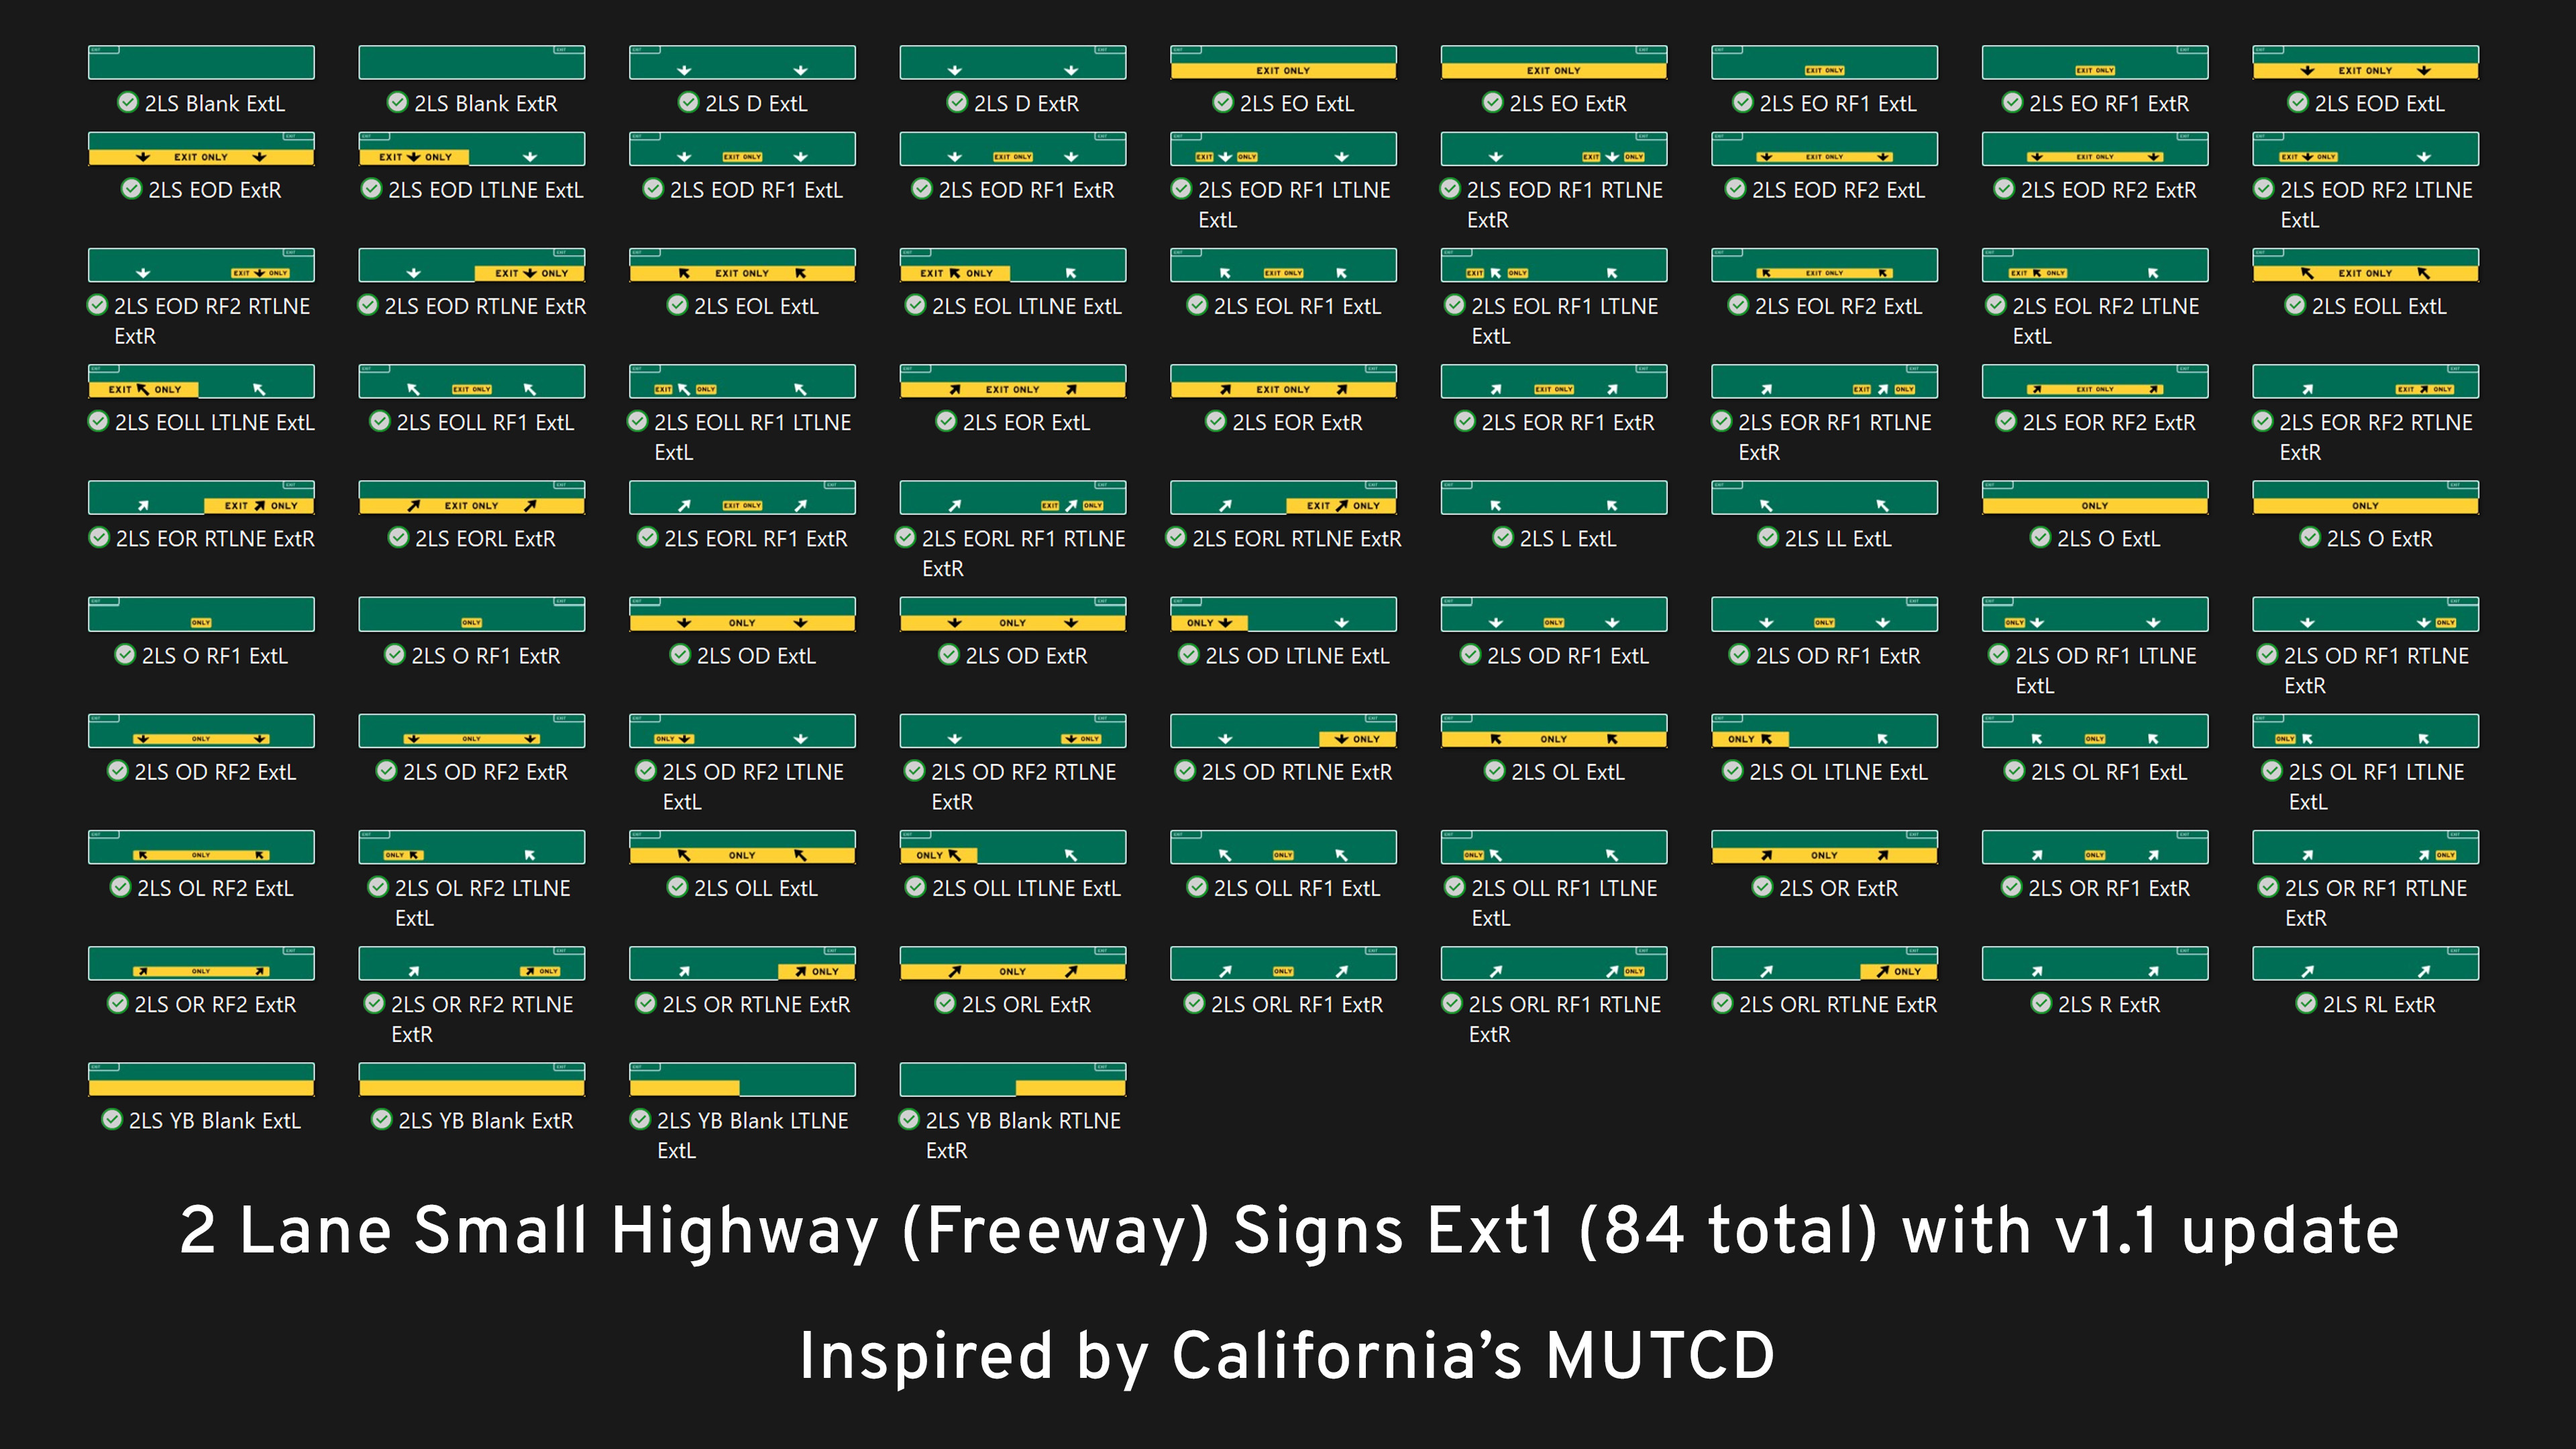
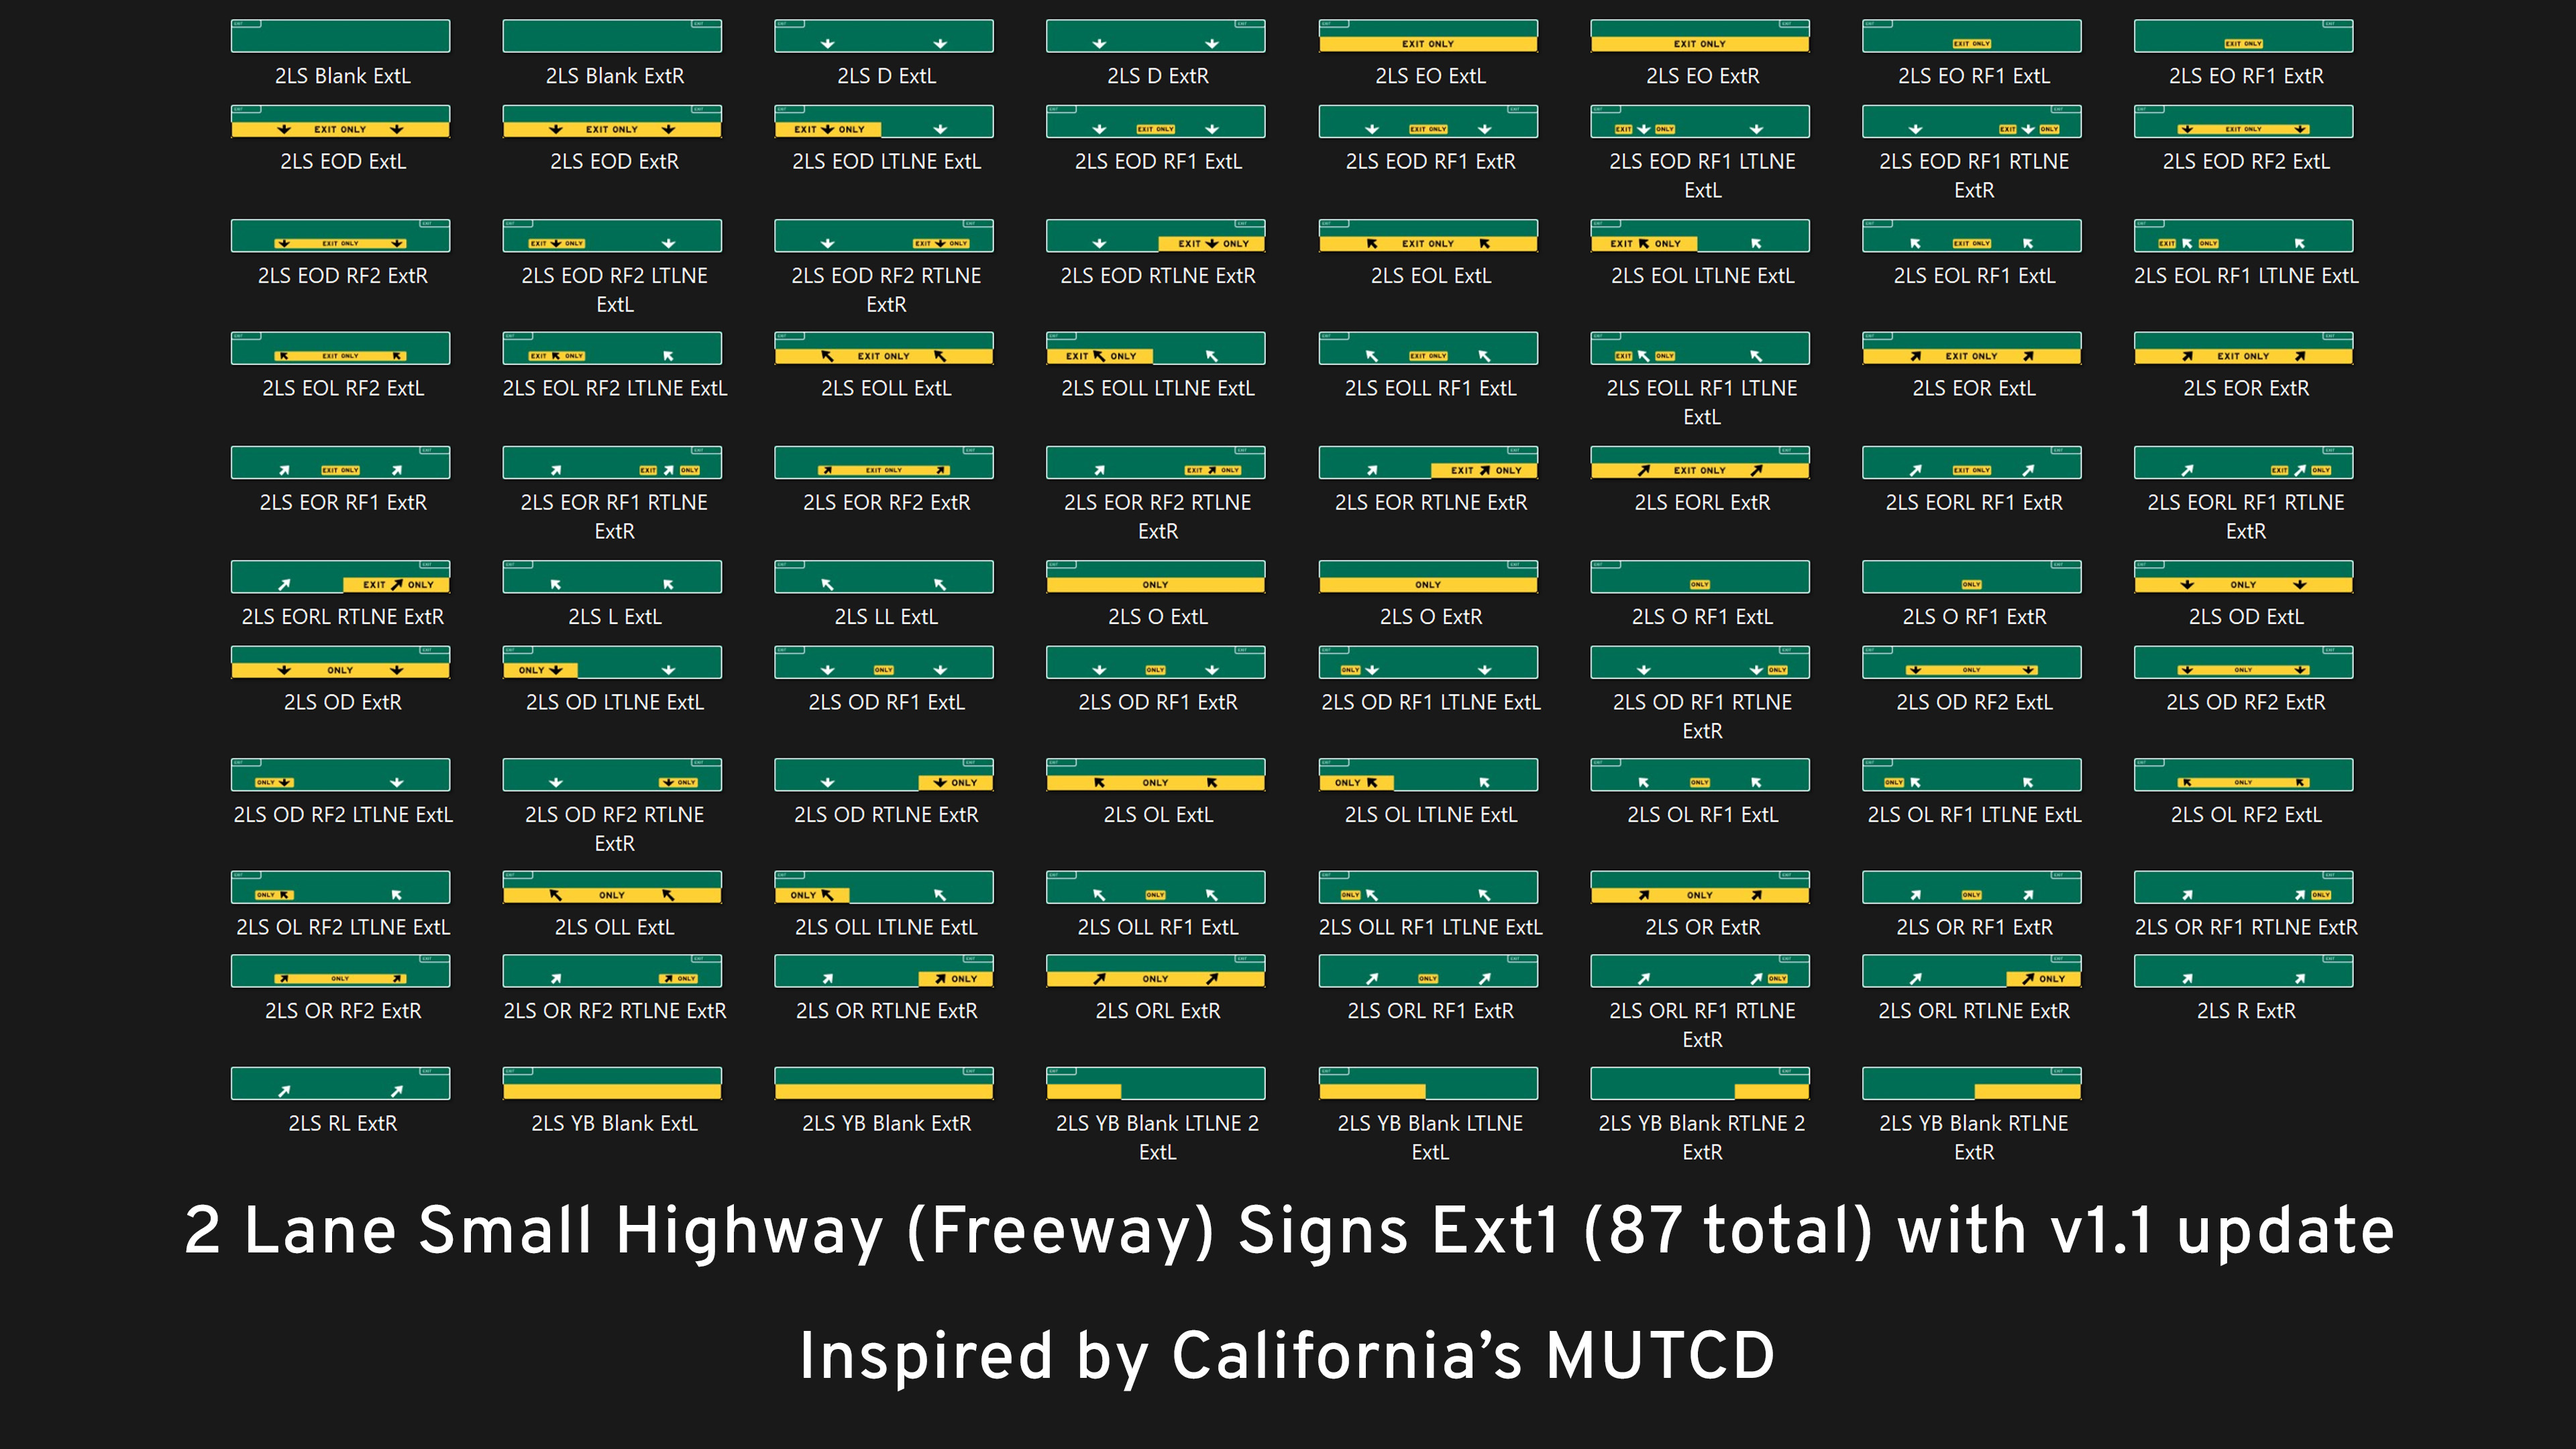
Added missing signs.

diff --git a/_BaseModule/README.md b/_BaseModule/README.md
@@ -5,8 +5,8 @@ Hello Cities: Skylines II civil engineers! This is a **Write Everywhere Module**
 ## Features
 
 - 2 Lane (Small) California Highway (Freeway) signs inspired by California's MUTCD
-- 71 total signs (see screenshots)
-- Additional 84 new signs with exit tab style 1 with Ext1 WE atlas pack (with v1.1 update)
+- 73 total signs (see screenshots)
+- Additional 87 new signs with exit tab style 1 with Ext1 WE atlas pack (with v1.1 update)
 - WE Layout included for easy implementation onto your highways (freeways)
 
 ## How to Use
@@ -78,3 +78,5 @@ No fonts included. Any True-Type font (.ttf) can be used with these signs. I per
 - To Klyte45 for the WriteEverywhere Mod!
 - To UnMaestro for the help and WE Module template!
 
+##  More signs?
+- Check out my profile for more of my signs and subscribe for the latest releases!

diff --git a/_BaseModule/changelog.md b/_BaseModule/changelog.md
@@ -1,2 +1,2 @@
-# v1.1
-- Adds additional 84 new 2LS CA Highway signs with California Exit Tab Style 1 with Ext1 WE atlas pack.
+# v1.1.1
+- Added missing 2LS YB Blank RTLNE 2, 2LS YB Blank RTLNE 2 Ext1, 2LS YB Blank LTLNE 2, and 2LS YB Blank LTLNE 2 Ext1 signs.
